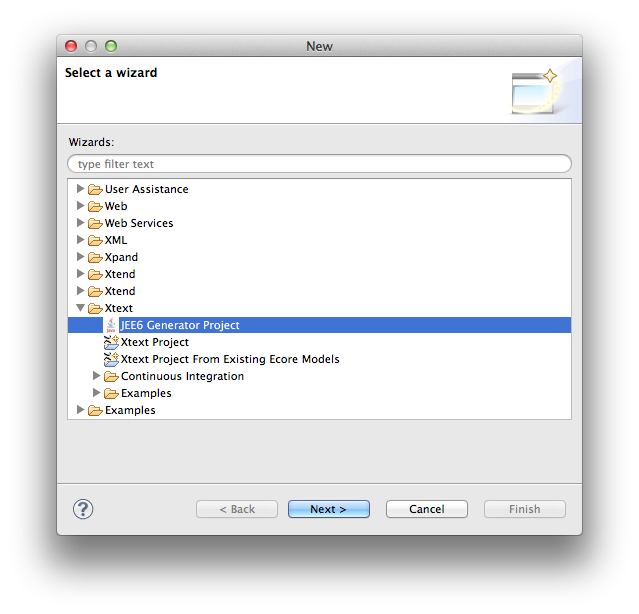
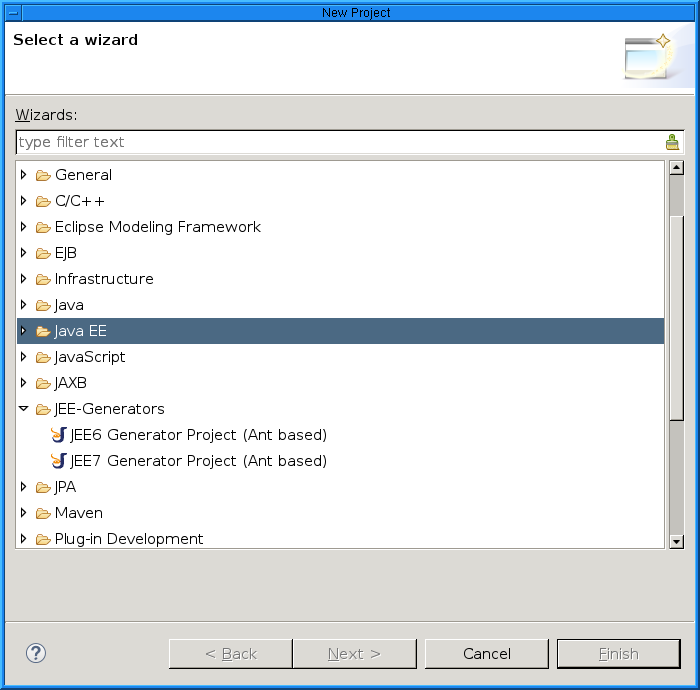
* New screen shots.  * Fixed some typos.

diff --git a/trunk/Website/org.jeegen.website/js/lang-common.js b/trunk/Website/org.jeegen.website/js/lang-common.js
@@ -29,7 +29,7 @@ registerLanguage('super|instanceof|as|new|null|false|true|val|var|if|else|switch
 registerLanguage('to-instance|bind|to|mixin|super|instanceof|as|new|null|false|true|val|var|if|else|switch|case|default|do|while|for|typeof|throw|try|catch|finally|this|it|int|boolean|short|char|double|float|long|byte|void|return', 'guice');
 registerLanguage('extends|super|instanceof|as|new|null|false|true|val|var|if|else|switch|case|default|do|while|for|typeof|throw|try|catch|finally|this|it|int|boolean|short|char|double|float|long|byte|void|return|package|import|param|task|depends', 'builddsl');
 registerLanguage('extends|super|instanceof|as|new|null|false|true|val|var|if|else|switch|case|default|do|while|for|typeof|throw|try|catch|finally|this|it|int|boolean|short|char|double|float|long|byte|void|return|package|import|param|FOR|ENDFOR|IF|ELSE|ENDIF', 'templates');
-registerLanguage('application|context|package|strict|development|timeout|jndi|persistence|unit|cacheable|locale|default|smtp|security|domain|clustered|param|description|description|entity|Text|Number|Option|Clob|Blob|upload|transient|Timestamp|auto|update|Date|Entity|Int|Email|options|filterable|cloneable|editable|process|roles|Boolean|Type|ref', 'mydsl');
+registerLanguage('application|context|package|strict|development|timeout|jndi|persistence|unit|cacheable|locale|default|smtp|security|domain|clustered|param|description|description|entity|Text|Number|Option|Clob|Blob|upload|transient|Timestamp|auto|update|Date|Entity|Int|Email|options|filterable|cloneable|editable|process|roles|Boolean|Type|ref|MySQL|DB2|Oracle', 'mydsl');
 
 function registerLanguage(keywords, langName) {
 	var shortCut = commonLangShortCut();

diff --git a/trunk/Website/org.jeegen.website/documentation.md b/trunk/Website/org.jeegen.website/documentation.md
@@ -285,6 +285,12 @@ entity Address
     Text plz;
     Text location;
 }
+
+process User
+{
+     Address
+}
+
 ```
 Nach einem Generatorlauf kann die Applikation deployed werden. Die Maske sieht dann wie folgt aus: 
 ![](documentation/Entity1.jpg)
@@ -313,7 +319,7 @@ entity Address
 ```
 
 In der Maske wird dadurch eine Combobox generiert. Passt man noch die
-Resource Bundles unter _$PROJECT_HOME/src/<package>/messages.properties_ an,
+Resource Bundles unter _$PROJECT_HOME/src/\<package\>/messages.properties_ an,
 sieht dann die Maske folgendermaßen aus:
 
 ![](documentation/Entity2.jpg)
@@ -374,7 +380,7 @@ entity Person
 }
 ```
 
-Daraus wird in der Datei _$PROJECT_HOME/src/<package>/entites/Person.java_:
+Daraus wird in der Datei _$PROJECT_HOME/src/\<package\>/entites/Person.java_:
 
 ```java
 /*
@@ -1383,7 +1389,7 @@ catch (IOException e)
 }
 ```
 
-** Hinweis!** Die DSL-Syntax wurde für `Clob` und `Blob` dahingehend
+**Hinweis!** Die DSL-Syntax wurde für `Clob` und `Blob` dahingehend
 verändert, dass daraus direkt der Upload generiert werden kann.  Da meist
 der Handler schon mit Business Logik angereichert wurde, muss dieser nach
 wie vor von Hand erweitert werden.
